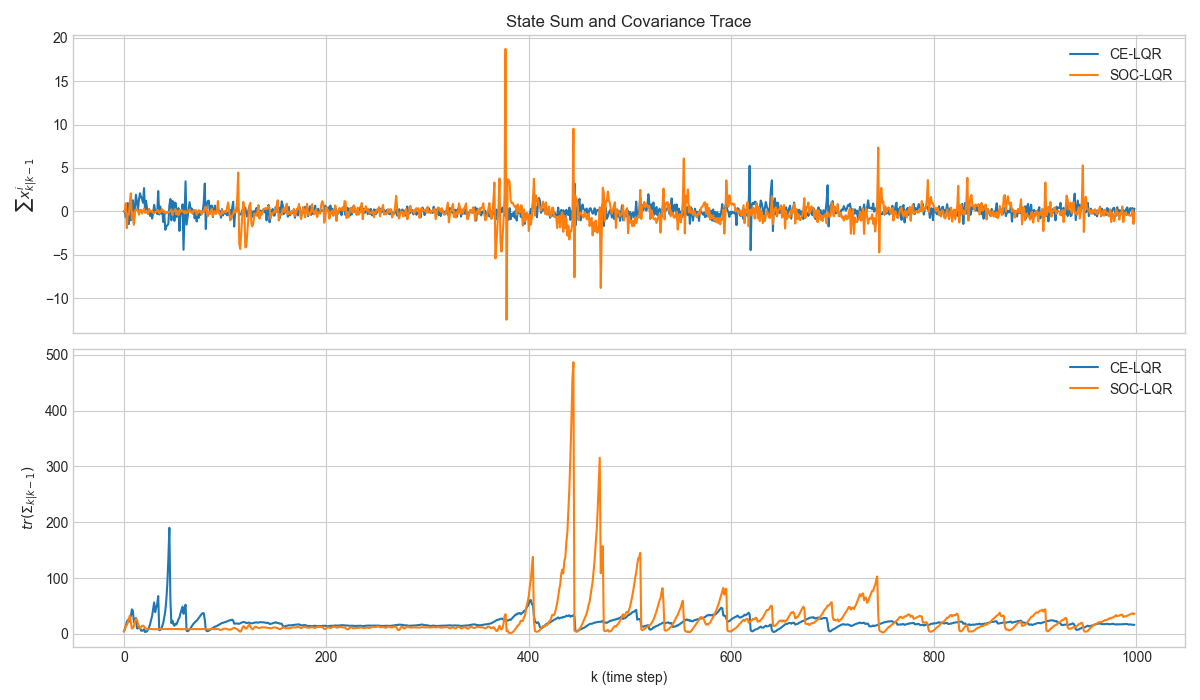
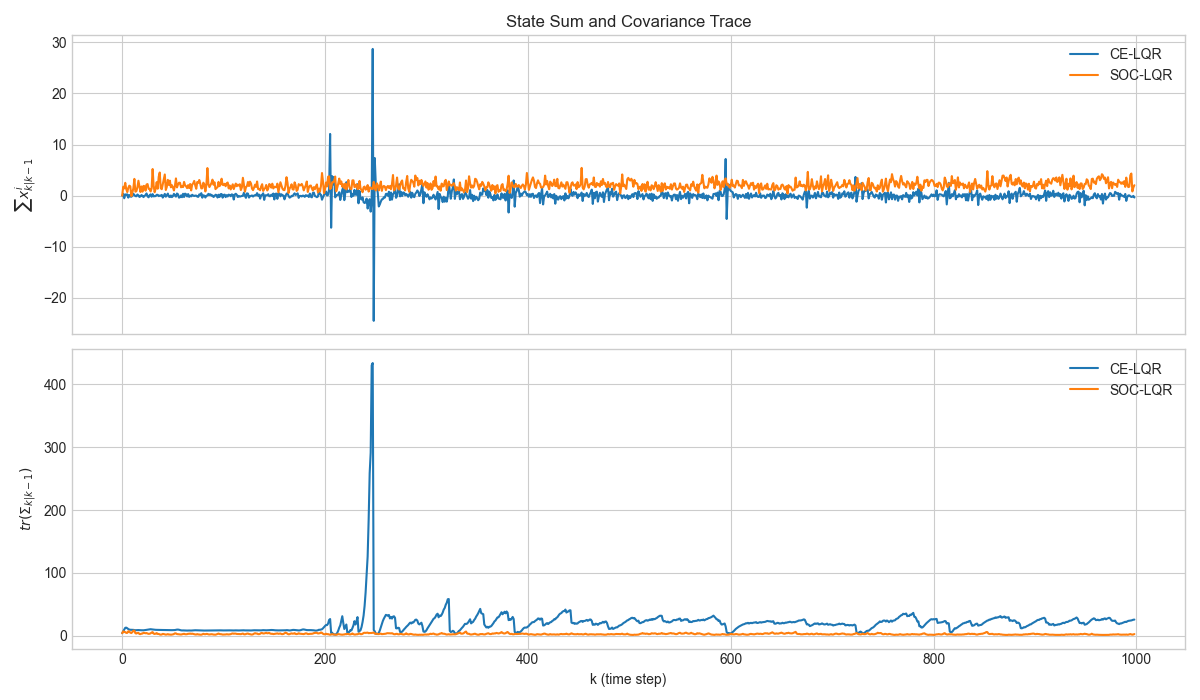
学習のオンライン化とeDMDの正則化項導入

diff --git a/A-EKF-LIMIT/algo.py b/A-EKF-LIMIT/algo.py
@@ -196,8 +196,10 @@ class eDMD:
         Psi_plus = self.psi(eta_data[:, 1:])
         
         Omega = np.vstack([Psi_minus, u_data[:, :-1]])
-        AB_t = np.linalg.lstsq(Omega.T, Psi_plus.T, rcond=None)[0].T
-        
+        # AB_t = np.linalg.lstsq(Omega.T, Psi_plus.T, rcond=None)[0].T
+        I = np.eye(Omega.shape[0])
+        AB_t = np.linalg.solve(Omega @ Omega.T + 1e-6 * I, Omega @ Psi_plus.T).T
+
         n_psi = Psi_minus.shape[0]
         self.A = AB_t[:, :n_psi]
         self.B = AB_t[:, n_psi:]
@@ -221,39 +223,57 @@ def design_ce_lqr(system):
     print("CE-LQR controllerを設計しました。")
     return K_ce
 
-def design_soc_lqr(system, N_data, dict_func):
-    print("SOC-LQRのオフライン学習を開始します...")
-    nx, nu = system.nx, system.nu
+def design_soc_lqr_online(system, N_data, dict_func, s0_true, s0_hat, Sigma0):
+    """
+    オンライン学習フェーズを実行してSOC-LQRコントローラを設計する。
+    """
+    print("\nSOC-LQRのオンライン学習を開始します...")
+    nx, nu, ns = system.nx, system.nu, system.ns
     size_l = nx * (nx + 1) // 2
     size_eta = nx + size_l
     
-    x_p_init = np.zeros(system.nx)
-    theta_p_init = system.theta_true + np.random.randn(system.ntheta) * 0.1 
-    s_p = np.concatenate([x_p_init, theta_p_init])
-    Sigma_p = np.eye(system.ns) * 0.1
-
+    ekf = ExtendedKalmanFilter(system)
+    
     eta_data = np.zeros((size_eta, N_data))
     u_data = np.zeros((nu, N_data))
 
+    # 初期化
+    s_hat_post, Sigma_post = s0_hat, Sigma0
+    s_true = s0_true
+    u_k = np.zeros(nu) # 最初の入力はゼロ
+
     for k in range(N_data):
-        print(s_p)
-        x_p = s_p[:nx]
-        Sigma_p_x = Sigma_p[:nx, :nx]
-        eta_data[:, k] = np.concatenate([x_p, vec_cholesky(Sigma_p_x)])
+        # 1. EKF予測
+        # 前のステップの事後推定値を使って現在の状態を予測
+        s_hat_prior, Sigma_prior = ekf.predict(s_hat_post, u_k, Sigma_post)
+
+        # 2. 探査用の入力u_kを生成
+        u_k = generate_truncated_noise(np.zeros(nu), np.eye(nu) * 0.2, 2).flatten()
         
-        u_k = generate_truncated_noise(np.zeros(nu), 0.2, 2)
+        # 3. データ収集
+        # 予測された信念状態(s_hat_prior, Sigma_prior)をデータとして保存
+        x_hat_prior = s_hat_prior[:nx]
+        Sigma_x_prior = Sigma_prior[:nx, :nx]
+        eta_data[:, k] = np.concatenate([x_hat_prior, vec_cholesky(Sigma_x_prior)])
         u_data[:, k] = u_k
         
-        F_p = system.F(s_p, u_k)
-        H_p = system.H(s_p, u_k)
+        # 4. 真のシステムを1ステップ進める
+        w_k_aug = generate_truncated_noise(np.zeros(ns), system.Sigma_w_aug, 3)
+        v_k = generate_truncated_noise(np.zeros(1), system.Sigma_v, 2)
+        s_true_next = system.f(s_true, u_k) + w_k_aug
+        s_true_next[nx:] = system.theta_true # パラメータは不変
+        
+        # 5. 次の観測を取得
+        y_k_next = system.h(s_true_next, u_k) + v_k
+        
+        # 6. EKF更新
+        # 次の観測を使って事後推定値を計算
+        s_hat_post, Sigma_post = ekf.update(s_hat_prior, y_k_next, u_k, Sigma_prior)
 
-        innovation_cov_p = H_p @ Sigma_p @ H_p.T + system.Sigma_v
-        K_p = Sigma_p @ H_p.T @ np.linalg.inv(innovation_cov_p)
-        Sigma_p_post = (np.eye(system.ns) - K_p @ H_p) @ Sigma_p
+        # 7. 真の状態を更新
+        s_true = s_true_next
 
-        s_p = system.f(s_p, u_k)
-        Sigma_p = F_p @ Sigma_p_post @ F_p.T + system.Sigma_w_aug
-
+    # eDMDによる線形モデルの学習
     dmd = eDMD(dict_func)
     A_lift, B_lift = dmd.fit(eta_data, u_data)
     
@@ -264,7 +284,7 @@ def design_soc_lqr(system, N_data, dict_func):
         [np.zeros((size_l, nx)), Q_star]
     ])
     
-    size_psi = size_eta + 1
+    size_psi = A_lift.shape[0]
     Q_lift = np.zeros((size_psi, size_psi))
     Q_lift[:size_eta, :size_eta] = Q_eta
     R_lift = system.R

diff --git a/A-EKF-LIMIT/main.py b/A-EKF-LIMIT/main.py
@@ -1,6 +1,6 @@
 import numpy as np
 import matplotlib.pyplot as plt
-from algo import (System, ExtendedKalmanFilter, vec_cholesky, design_ce_lqr, design_soc_lqr, generate_truncated_noise)
+from algo import (System, ExtendedKalmanFilter, vec_cholesky, design_ce_lqr, design_soc_lqr_online, generate_truncated_noise)
 
 def run_simulation(sys, controller_type, K, dict_func, N_sim, s0_true, s0_hat, Sigma0):
     ns, nx = sys.ns, sys.nx
@@ -106,10 +106,22 @@ if __name__ == "__main__":
     sys = System(theta_true=theta_true, known_params=known_params, unknown_indices=unknown_indices)
 
     # 2. Controllerの設計
+    # ---- シミュレーションと学習フェーズの初期値を共通で設定 ----
+    x0_true = generate_truncated_noise(np.zeros(sys.nx), sys.Sigma_w, 3)
+    x0_hat = np.zeros(sys.nx)
+    theta0_hat = theta_true + np.random.randn(sys.ntheta) * 0.1
+    s0_true = np.concatenate([x0_true, theta_true])
+    s0_hat = np.concatenate([x0_hat, theta0_hat])
+    
+    Sigma0 = np.eye(sys.ns)
+    Sigma0[sys.nx:, sys.nx:] *= 0.1
+
     K_ce = design_ce_lqr(sys)
-    N_data = 10000
+    
+    # ---- SOCコントローラの設計 (オンライン学習) ----
+    N_data = 5000
     dict_func = lambda eta: np.vstack([eta, np.ones(eta.shape[1])])
-    K_soc = design_soc_lqr(sys, N_data, dict_func)
+    K_soc = design_soc_lqr_online(sys, N_data, dict_func, s0_true, s0_hat, Sigma0)
 
     # 3. シミュレーションの実行
     N_sim = 1000
